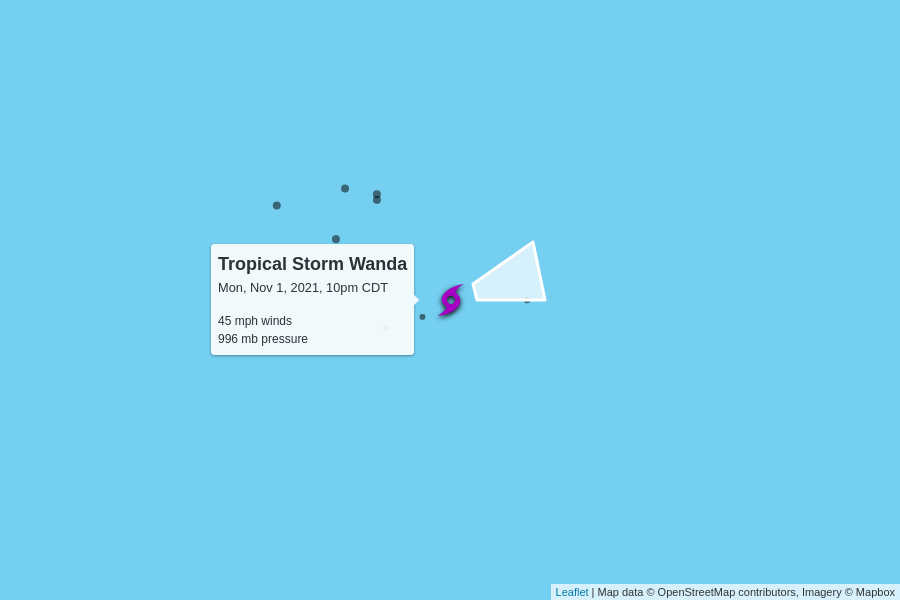
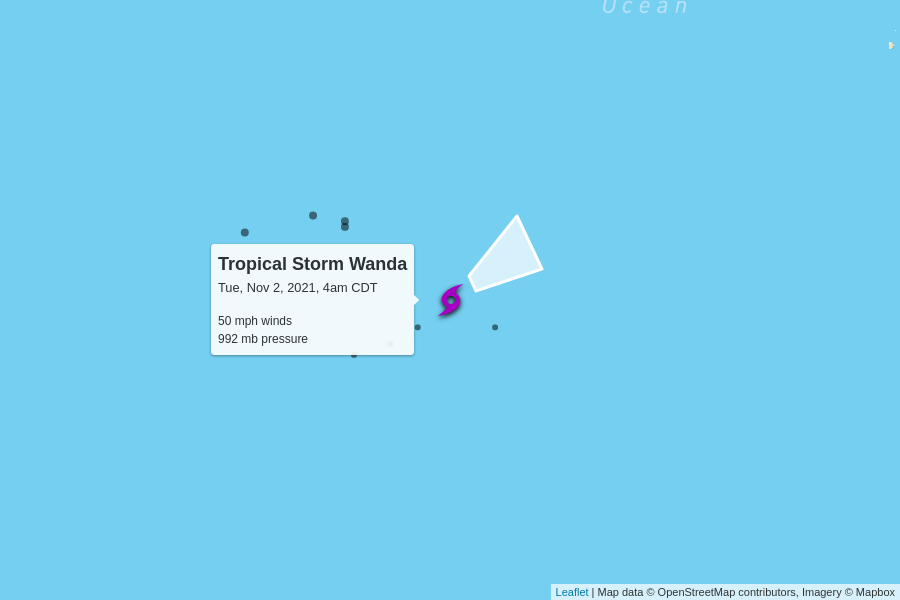
automatic update

diff --git a/docs/index.html b/docs/index.html
@@ -100,7 +100,7 @@
         <td colspan="6" class="storm category-0" >
           <h2>
             Tropical Storm Wanda
-            <p class="updated">last updated <span data-time>2021-11-02T03:00:00.000Z</span></p>
+            <p class="updated">last updated <span data-time>2021-11-02T09:00:00.000Z</span></p>
           </h2>
         </td>
       </tr>
@@ -115,12 +115,12 @@
       </tr>
       <tr>
         <td class="spacer"></td>
-        <td>45 mph</td>
-        <td>996 mb</td>
+        <td>50 mph</td>
+        <td>992 mb</td>
         <td>
-          7 mph to the east-northeast
+          8 mph to the east-northeast
           <br/>
-          <span style="display: inline-block; font-size: 1.5em; transform: rotate(75deg);">↑</span>
+          <span style="display: inline-block; font-size: 1.5em; transform: rotate(60deg);">↑</span>
         </td>
         <td><a href="https://raw.githubusercontent.com/mgwalker/atlantic-hurricanes/main/data/csv/AL212021.csv">AL212021.csv</a></td>
         <td><a href="https://www.nhc.noaa.gov/archive/2021/WANDA.shtml?">NHC advisories</a></td>
